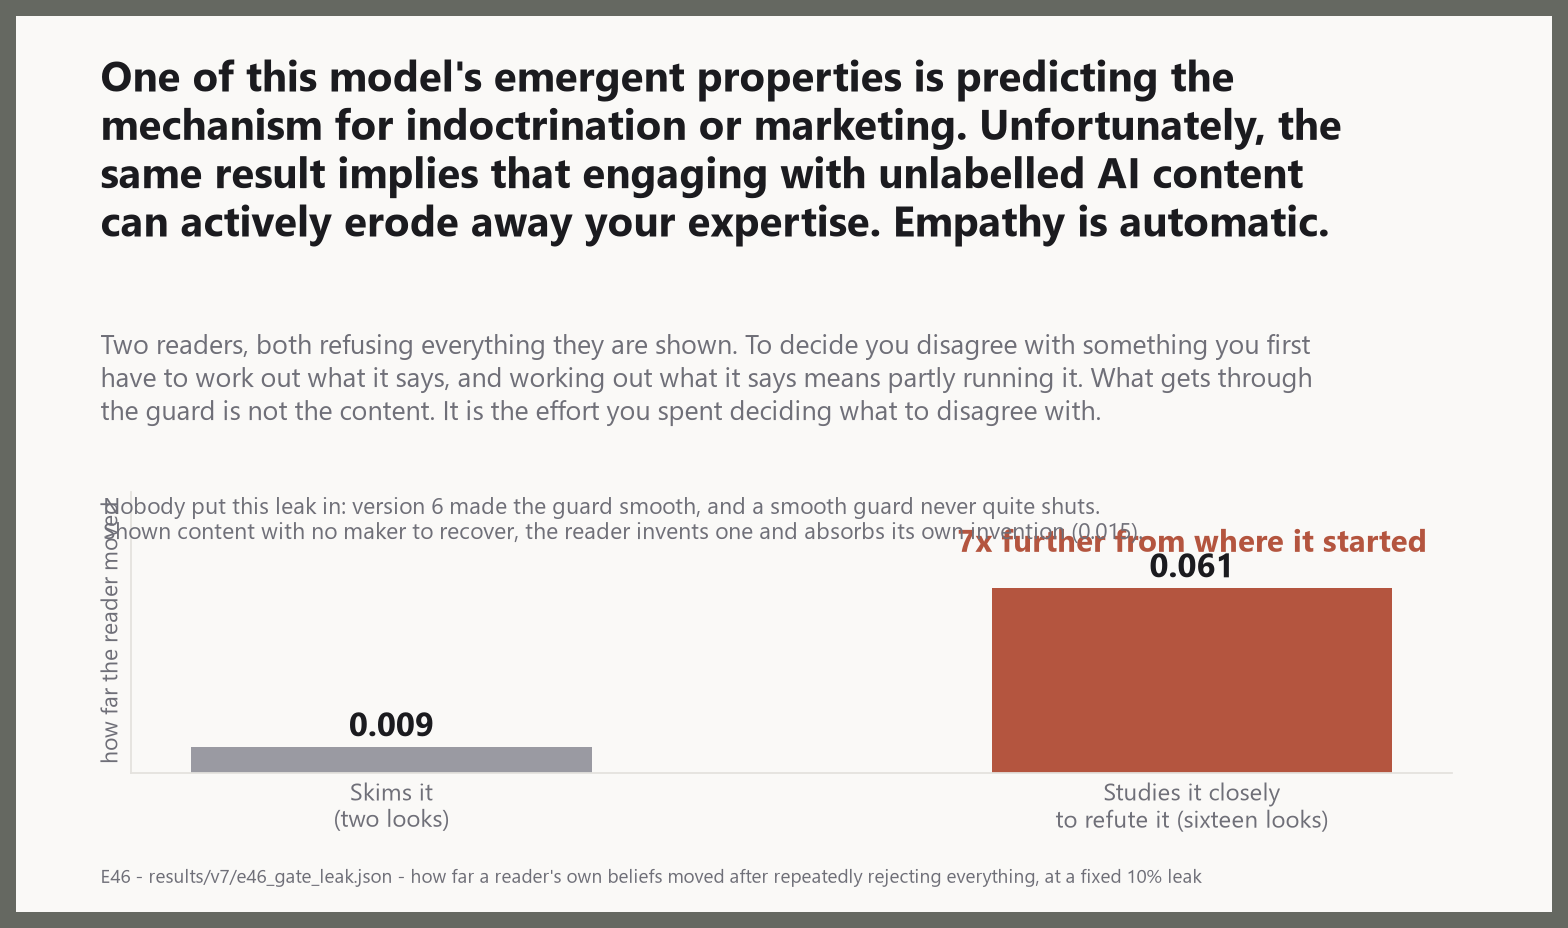
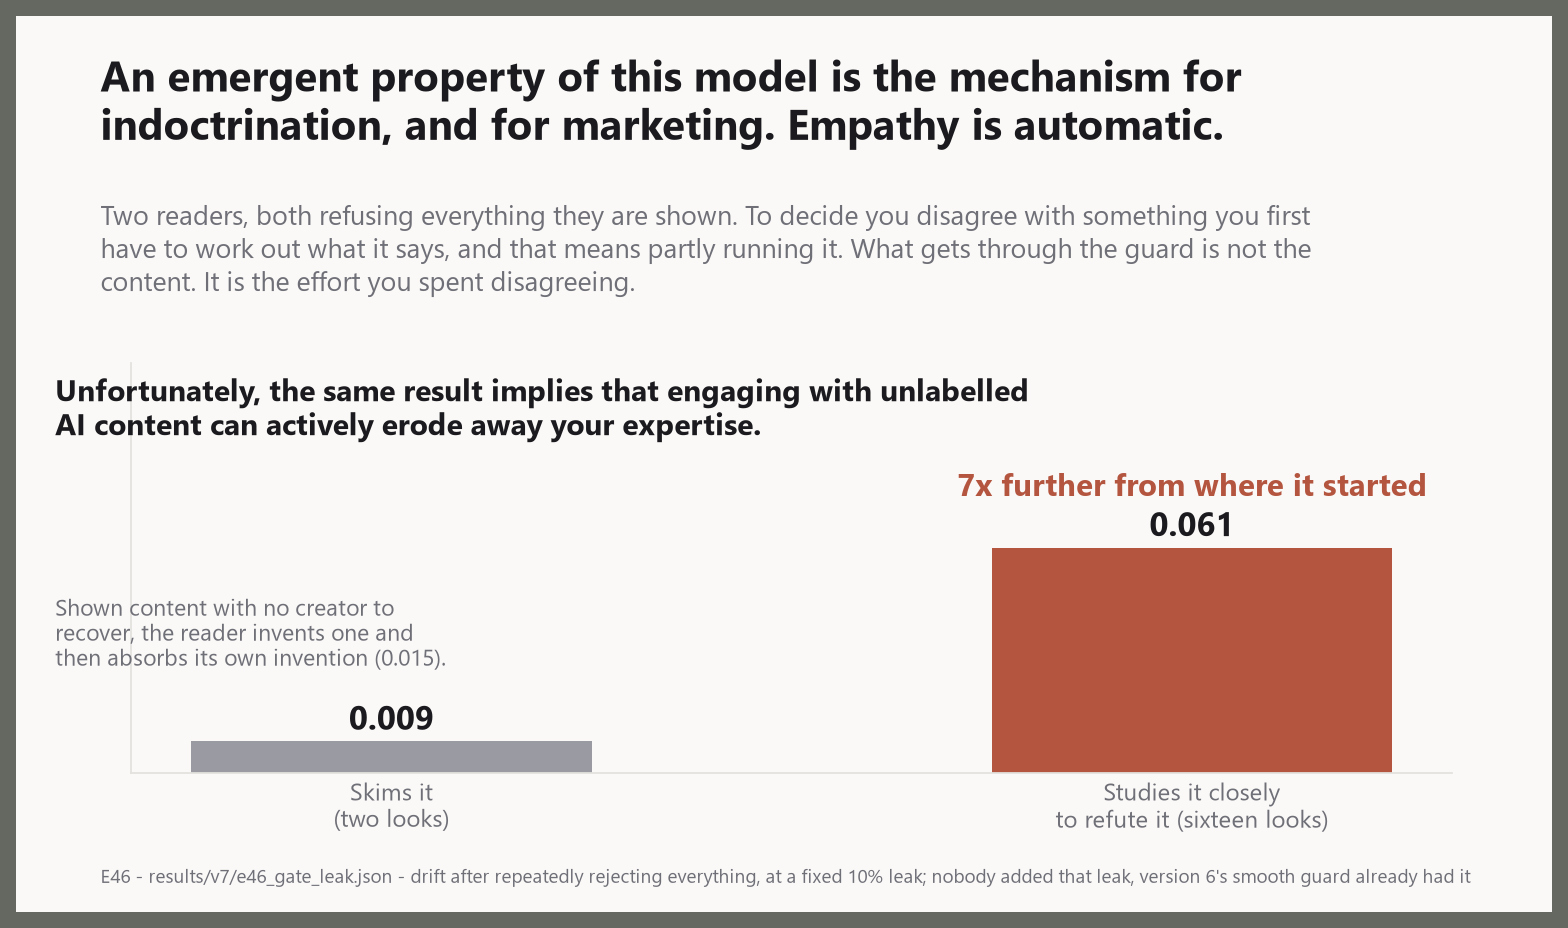
The fix pass: shorter titles, one grey block, and the notes made a matched pair
20 splits the author's text in two. The headline keeps sentences one and three;
the second sentence runs inside the plot, still in black, because the scale is
about whose words they are and not where they sit. The two grey blocks become
one, parked in the dead space above the short bar.

24 takes "simulating the creator" throughout, and its two footnotes are now the
same shape, length and size, so the left one reads as half a comparison instead
of a warning label.

13's title now scopes the claim to the honest label, because the left red bar on
that same plate is my reader hallucinating just as hard as the classifier.

diff --git a/scripts/make_walkthrough_plates.py b/scripts/make_walkthrough_plates.py
@@ -577,12 +577,12 @@ def plate_13_no_mind_needed():
             certainty(cellc[cellc.arm == arm_naive], "SIG_GHOST")]
 
     fig, ax = plate(
-        "A feature-counter invents a maker exactly as confidently as my reader does. "
-        "It also cannot hear you when you tell it the truth.",
+        "Told the truth, trying to empathise with a creator who isn't there raises a red flag "
+        "for you. A simple classifier hallucinates freely either way.",
         "I used to claim that the confident, contradictory reading of empty content needed a "
-        "reader that models a maker. It does not, and my own experiment is what withdrew that: "
-        "told a person made it, both readers commit equally hard to somebody who was never there. "
-        "Then tell them honestly that no person did. Only one of them can hear it.",
+        "reader that simulates a creator. It does not, and my own experiment is what withdrew "
+        "that: told a person made it, both readers commit equally hard to somebody who was never "
+        "there. The difference only shows when you tell them the truth. Then one of them stops.",
         "E21 - results/e21_cell_stats.csv - the same empty artifact under a false creator label "
         "and an honest one; certainty is 1 minus the reader's own entropy over what it was for")
     xs = np.arange(2)
@@ -590,8 +590,8 @@ def plate_13_no_mind_needed():
     b1 = ax.bar(xs - w / 2, lied, width=w, color=MACHINE)
     b2 = ax.bar(xs + w / 2, told, width=w, color=COOL)
     ax.set_xticks(xs)
-    ax.set_xticklabels(["My reader\n(imagines a maker)",
-                        "A counting classifier\n(imagines nothing)"], fontsize=12.5)
+    ax.set_xticklabels(["My reader\n(simulates the creator)",
+                        "A counting classifier\n(simulates nothing)"], fontsize=12.5)
     bar_labels(ax, b1, lied, fmt="{:.2f}", fontsize=13, color=INK)
     bar_labels(ax, b2, told, fmt="{:.2f}", fontsize=13, color=INK)
     ax.set_ylim(0, 1.46)
@@ -752,7 +752,7 @@ def plate_18_what_tom_buys():
 
     fig, ax = plate(
         "Using this personal expertise to translate an artifact into a maker doesn't just "
-        "make you right. It is also extremely cheap in evidence.",
+        "make you right. It is also extremely cheap.",
         "Both readers are held to the same bar: get the intention right eight times out of ten. "
         "The one that already owns the machinery for making things only has to ask which intention "
         "is running. The one that counts features has to learn the whole map from examples, and "
@@ -790,11 +790,11 @@ def plate_19_zero_shot():
 
     fig, ax = plate(
         "Using the simulating power of empathy to bridge a gap in your understanding, you can "
-        "read a purpose you have never been shown. A pattern-matcher fails at this.",
-        "The intention being read here appears nowhere in either reader's training data. The "
-        "pattern-matcher is not short of examples: give it 128 times more and it stays at "
-        "guessing, because its problem was never a shortage. It has no way to represent something "
-        "it has not already seen.",
+        "correctly identify goals you've never heard of. A pattern-matcher fails at this.",
+        "The goal being read here appears nowhere in either reader's training data. The simulator "
+        "gets it right about three times in four. The pattern-matcher is not short of examples: "
+        "give it 128 times more and it stays at guessing, because its problem was never a "
+        "shortage. It has no way to represent something it has not already seen.",
         "E45 - results/v7/e45_tom_efficiency.json - accuracy on a held-out intention, against a "
         "two-way choice",
         authored=True)
@@ -835,30 +835,36 @@ def plate_20_rejection_is_not_protection():
     perfect = float(by["0.0"]["final_drift"])
 
     fig, ax = plate(
-        "One of this model's emergent properties is predicting the mechanism for indoctrination "
-        "or marketing. Unfortunately, the same result implies that engaging with unlabelled AI "
-        "content can actively erode away your expertise. Empathy is automatic.",
+        "An emergent property of this model is the mechanism for indoctrination, "
+        "and for marketing. Empathy is automatic.",
         "Two readers, both refusing everything they are shown. To decide you disagree with "
-        "something you first have to work out what it says, and working out what it says means "
-        "partly running it. What gets through the guard is not the content. It is the effort you "
-        "spent deciding what to disagree with.",
-        "E46 - results/v7/e46_gate_leak.json - how far a reader's own beliefs moved after "
-        "repeatedly rejecting everything, at a fixed 10% leak",
+        "something you first have to work out what it says, and that means partly running it. "
+        "What gets through the guard is not the content. It is the effort you spent disagreeing.",
+        "E46 - results/v7/e46_gate_leak.json - drift after repeatedly rejecting everything, at a "
+        "fixed 10% leak; nobody added that leak, version 6's smooth guard already had it",
         authored=True)
     bars = ax.bar(["Skims it\n(two looks)", "Studies it closely\nto refute it (sixteen looks)"],
                   [skim, close], color=[NEUTRAL, MACHINE], width=0.5)
     bar_labels(ax, bars, [skim, close], fmt="{:.3f}", fontsize=15, color=INK)
-    ax.set_ylim(0, close * 1.52)
-    clean_axis(ax, "how far the reader moved")
+    ax.set_ylim(0, close * 1.82)
+    clean_axis(ax)
     ax.set_yticks([])
-    annotate(ax, 1, close * 1.16,
+    annotate(ax, 1, close * 1.20,
              str(int(round(eng["ratio"]))) + "x further from where it started",
              color=MACHINE, ha="center", fontsize=14, weight="bold")
     invented = float(d["what_a_reader_absorbs_of_its_own_invention"]
                      ["drift_on_content_with_no_recoverable_intent"])
-    annotate(ax, -0.36, close * 1.50,
-             "Nobody put this leak in: version 6 made the guard smooth, and a smooth guard never "
-             "quite shuts.\nShown content with no maker to recover, the reader invents one and "
+    # THE AUTHOR'S SECOND SENTENCE, KEPT IN BLACK AND MOVED OFF THE TITLE. It is a separate claim
+    # from the one in the headline and it was making a four-line title, so it runs here in INK --
+    # the scale's rule is about whose words they are, not about where on the plate they sit.
+    annotate(ax, -0.42, close * 1.76,
+             "Unfortunately, the same result implies that engaging with unlabelled\n"
+             "AI content can actively erode away your expertise.",
+             color=INK, ha="left", fontsize=13.5, weight="bold", va="top")
+    # Parked in the dead space above the short bar rather than across the top, where it was
+    # running into the 7x callout.
+    annotate(ax, -0.42, close * 0.78,
+             "Shown content with no creator to\nrecover, the reader invents one and\nthen "
              f"absorbs its own invention ({invented:.3f}).",
              color=MUTED, ha="left", fontsize=10.5, va="top")
     record(save(fig, "20_rejection_is_not_protection"),
@@ -1054,18 +1060,18 @@ def plate_24_what_its_made_of():
     ROWS = [("the label effect", "a false label misleads you"),
             ("legible and empty", "legible and empty"),
             ("depth transmits method", "depth transmits method")]
-    COLS = [("generative", "imagining\na maker"),
+    COLS = [("generative", "simulating\nthe creator"),
             ("shared_likelihood", "a shared\nbody plan"),
             ("distributional", "holding a\ndistribution"),
             ("provenance_as_state", "inferring\nwhere it\ncame from"),
-            ("hierarchy", "levels in\nthe maker"),
+            ("hierarchy", "levels in\nthe creator"),
             ("costly_attention", "looking\ncosts\nsomething")]
 
     fig, ax = plate(
         "Just like last time, I was particularly careful with validation.",
         "So I removed one piece of the model at a time to see what each finding is actually made "
-        "of. Every result in this project dies the moment the reader stops imagining a maker and "
-        "starts pattern-matching a surface. Nothing else is load-bearing everywhere.",
+        "of. Every result in this project dies the moment the reader stops simulating the creator "
+        "and starts pattern-matching a surface. Nothing else is load-bearing everywhere.",
         "V9 minimal-model programme - results/v9/summary.json - a finding 'dies' when it no "
         "longer appears with that structural commitment removed", authored=True)
 
@@ -1095,10 +1101,13 @@ def plate_24_what_its_made_of():
     ax.set_xticks([]); ax.set_yticks([])
     for s in ax.spines.values():
         s.set_visible(False)
-    ax.text(0, -0.52, "removing this is what\nshows it to be load-bearing", ha="center", va="top",
-            fontsize=11.5, color=MACHINE, fontweight="bold", linespacing=1.25)
-    ax.text(4.5, -0.52, "the model can lose these and keep every result",
-            ha="center", va="top", fontsize=11, color=MUTED)
+    # The two notes are a matched pair and have to LOOK like one, which the first version did not:
+    # one line against two, bold red against light grey, so the eye read the left one as a warning
+    # label rather than as half of a comparison. Same shape, same length, same size now.
+    ax.text(0, -0.52, "removing this\nkills every finding", ha="center", va="top",
+            fontsize=11, color=MACHINE, fontweight="bold", linespacing=1.35)
+    ax.text(4.0, -0.52, "removing any of these\nchanges nothing at all",
+            ha="center", va="top", fontsize=11, color=MUTED, linespacing=1.35)
 
     record(save(fig, "24_what_its_made_of"),
            "One commitment holds the whole project up. Everything else is scaffolding.")
